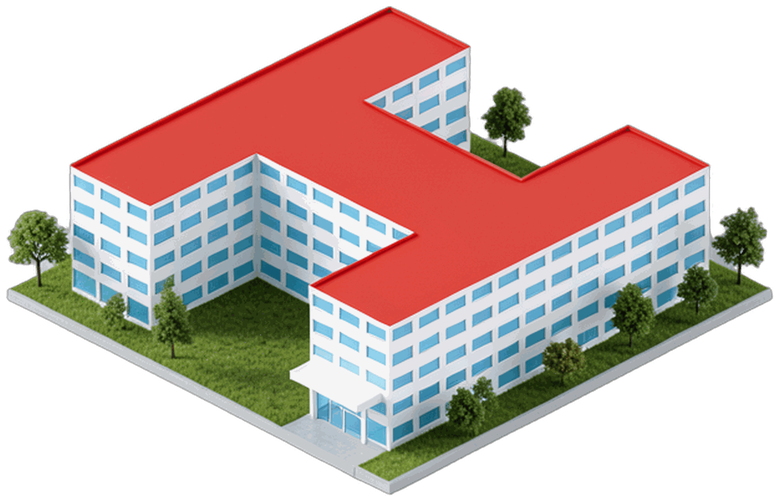
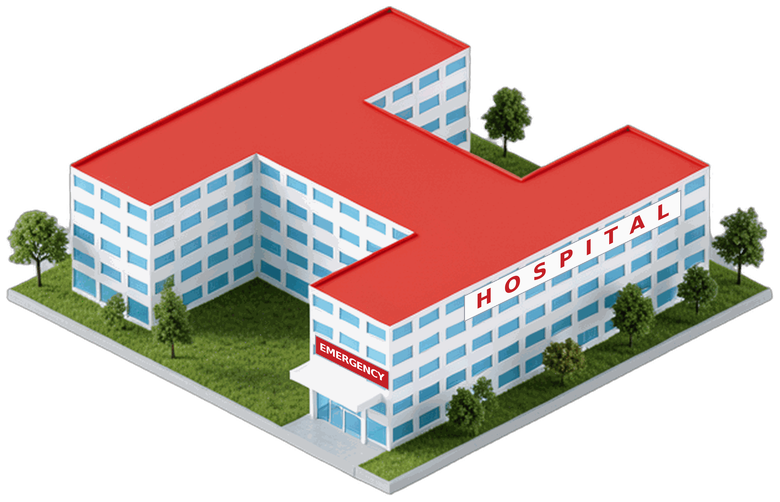
Pharmacie d'origine sans croix en relief; hôpital avec HOSPITAL et EMERGENCY
Claude-Session: https://claude.ai/code/session_01GArnKYW6kkDaRqVDc5pfp5

Changed region(s): [[0.5846, 0.3884, 0.8923, 0.6275], [0.4, 0.6574, 0.5231, 0.7769]]

diff --git a/tools/factory_ai/RETOURS.md b/tools/factory_ai/RETOURS.md
@@ -183,3 +183,7 @@ Livrés, sans texte, marge 6 px, QA asset_qa : pente 0,50, débordement 0 % (mé
 - Hôpital : H exact construit depuis un gabarit géométrique (gab_hopital_rb.py), pont à l'axe exact des deux ailes, toits rouges, murs blancs, entrée sur une vraie façade, aucune croix ni objet sur les toits, aucun texte. Remplace hopital.png (780×502, 3×3).
 - Pharmacie : plan en croix, murs blancs, croix verte plate sur le toit uniquement, plus de murs ou piliers verts ni de potence parasite. Remplace pharmacie.png (268×148).
 - QA : pente 0,52 / 0,52, débord 0, coupé non, décentrage ≈ 0.
+
+## Retour de Rémy (suite) : pharmacie d'origine restaurée, texte sur l'hôpital
+- Pharmacie : retour au bâtiment Gemini d'origine (bat_pharmacie_gem_c) ; seules les deux petites croix en relief sur les façades latérales sont retirées (retouche pixel, le reste est inchangé). Ombre au sol supprimée pour cette version (à regénérer si besoin).
+- Hôpital : exception explicite de Rémy à la règle « pas de texte » : « HOSPITAL » (bandeau blanc, lettres rouges, grande façade) et « EMERGENCY » (bandeau rouge, lettres blanches, au-dessus de l'entrée), incrustés en perspective isométrique, police DejaVu Sans Bold. Les autres assets restent sans texte.
